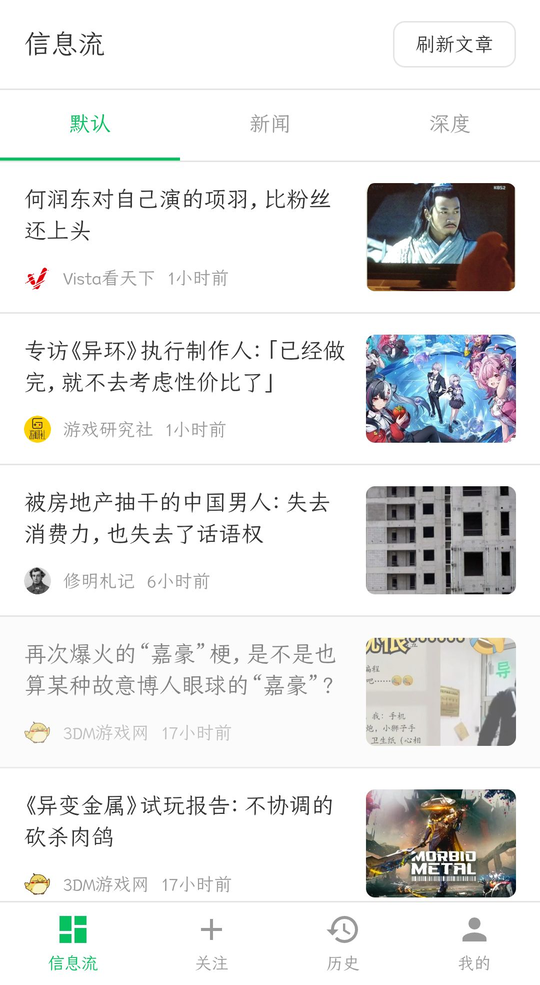
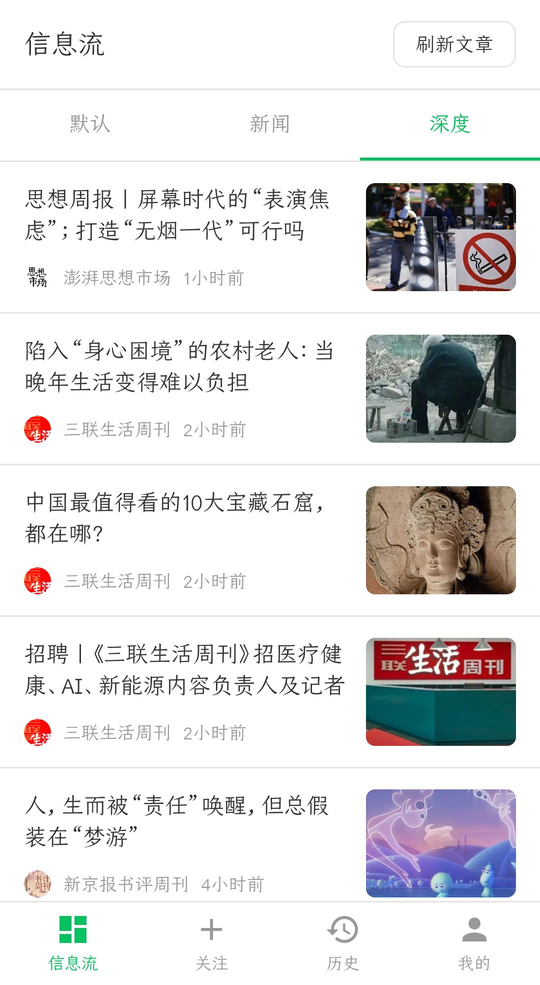
更新登录相关代码和说明

diff --git a/templates/feed.html b/templates/feed.html
@@ -241,7 +241,10 @@ function staggeredRefresh(accounts, force, syncGroupId) {
     return new Promise(resolve => {
         function onDone() {
             doneCount++;
-            indicator.textContent = `同步中 ${doneCount}/${accounts.length}...`;
+            // Show progress only if actually fetching (not all skipped)
+            if (doneCount > totalSkipped) {
+                indicator.textContent = `同步中 ${doneCount - totalSkipped}/${accounts.length - totalSkipped}...`;
+            }
             if (doneCount >= accounts.length) {
                 resolve({totalFetched, totalSkipped});
             }
@@ -288,7 +291,7 @@ async function syncFeed() {
 
     const indicator = document.getElementById('syncIndicator');
     indicator.style.display = 'inline';
-    indicator.textContent = '同步中...';
+    indicator.textContent = '检查更新中...';
 
     try {
         const acctResp = await fetch(`/api/accounts?group_id=${currentGroupId}`);
@@ -337,7 +340,7 @@ async function refreshFeed() {
 
     const indicator = document.getElementById('syncIndicator');
     indicator.style.display = 'inline';
-    indicator.textContent = '同步中...';
+    indicator.textContent = '检查更新中...';
     backfillAccounts = [];
 
     try {

diff --git a/wx_proxy.py b/wx_proxy.py
@@ -41,18 +41,16 @@ class WxMpClient:
 
     @property
     def is_logged_in(self):
+        """Check if there's an active session that hasn't expired."""
         ws = self._get_active_session()
         if not ws:
             return False
+        # Only expire if past due (don't pre-validate, let actual requests determine validity)
         if ws.expires_at and datetime.utcnow() > ws.expires_at:
             logger.info('WxSession expired, deactivating')
             ws.is_active = False
             db.session.commit()
             return False
-        # If within 1 day of expiry, validate and try to extend
-        if ws.expires_at and (ws.expires_at - datetime.utcnow()).total_seconds() < 86400:
-            logger.info('WxSession close to expiry, validating...')
-            return self.validate_session()
         return True
 
     @property
@@ -323,6 +321,12 @@ class WxMpClient:
                 resp = requests.get(url, params=params, headers=headers, timeout=15)
             else:
                 resp = requests.post(url, params=params, data=data, headers=headers, timeout=15)
+
+            # Auto-extend session on successful requests
+            if resp and resp.status_code == 200:
+                ws.expires_at = datetime.utcnow() + timedelta(days=Config.WX_SESSION_DAYS)
+                db.session.commit()
+
             return resp
         except requests.exceptions.RequestException as e:
             logger.error('Request failed: %s %s - %s', method, url, e)

diff --git a/config.py b/config.py
@@ -71,4 +71,6 @@ class Config:
     MAX_ARTICLE_PAGES = int(os.environ.get('MAX_ARTICLE_PAGES', 3))  # pages per refresh (conservative)
 
     # WeChat session settings
-    WX_SESSION_DAYS = int(os.environ.get('WX_SESSION_DAYS', 30))  # session expiry in days
+    # Session is auto-extended on successful API calls.
+    # Use conservative value (4 days) since WeChat may expire cookies server-side.
+    WX_SESSION_DAYS = int(os.environ.get('WX_SESSION_DAYS', 4))  # session expiry in days

diff --git a/README.md b/README.md
@@ -421,7 +421,8 @@ python3 app.py
 
 - 微信公众号后台要求**摄像头扫码**登录，不支持长按识别或截图扫码
 - 首次扫码建议找另一部手机或在电脑上操作
-- 扫码登录后约 30 天有效，到期前会在「我的」页面提醒，可点击「延长会话」手动续期
+- 扫码登录后会自动保持活跃状态：每次成功获取文章时，会话会自动延期
+- 如果长时间不使用（超过4天），可能需要重新扫码登录
 
 ### 关于文章同步
 
@@ -430,6 +431,7 @@ python3 app.py
 - 关注新公众号后，首次在”信息流”页面加载该公众号的文章可能需要几秒钟
 - 同一公众号 30 分钟内不会重复同步（冷却机制），手动点「刷新文章」可跳过冷却期
 - 文章同步是并发进行的，先获取到的文章会立即显示在页面上
+- 如果所有公众号都在冷却期内，刷新时不会实际获取文章（仅检查缓存）
 
 ### 关于数据安全
 
@@ -461,8 +463,8 @@ python3 app.py
 | `DB_TYPE` | `local`（SQLite）/ `supabase`（PostgreSQL）/ `auto`（自动检测） | `auto` |
 | `DATABASE_URL` | PostgreSQL 连接串（`local` 模式不需要） | — |
 | `SECRET_KEY` | Flask 会话密钥（不设置会自动生成） | 自动生成 |
-| `ARTICLE_CACHE_TTL` | 同步冷却时间，分钟 | `30` |
-| `WX_SESSION_DAYS` | 微信登录会话有效天数 | `30` |
+| `ARTICLE_CACHE_TTL` | 文章同步冷却时间，分钟 | `30` |
+| `WX_SESSION_DAYS` | 微信登录会话有效期，天（会自动延期） | `4` |
 
 ### 使用 Supabase 数据库（推荐用于云部署）
 
@@ -518,7 +520,7 @@ SECRET_KEY=your_random_secret_key_here
 
 # 可选：自定义其他配置
 ARTICLE_CACHE_TTL=30
-WX_SESSION_DAYS=30
+WX_SESSION_DAYS=4
 ```
 
 #### 5. 初始化数据库表
